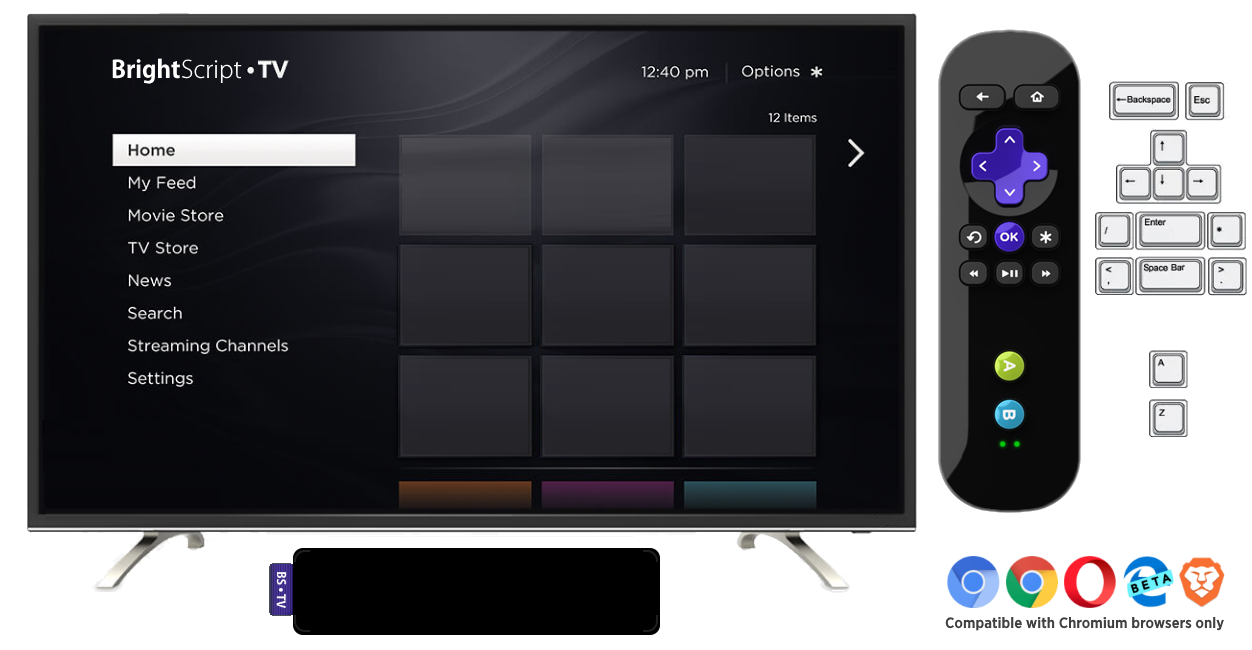
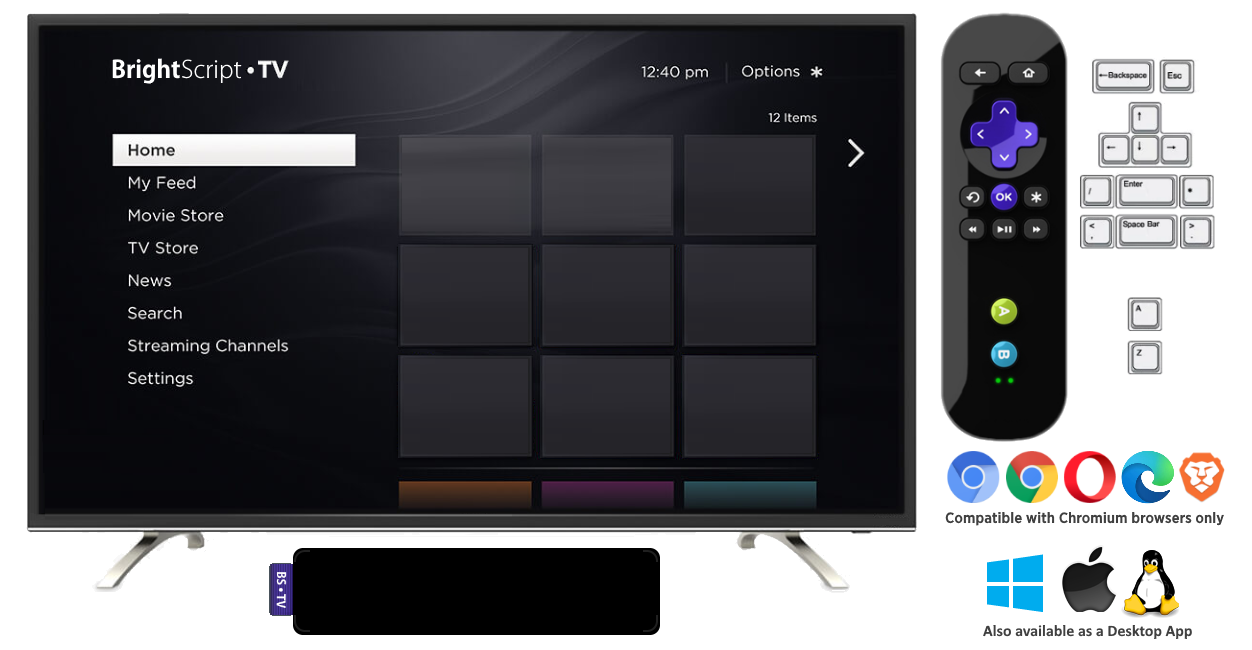
Updated to v0.7.0

Changed region(s): [[0.7476, 0.0, 0.9968, 0.8308], [0.7476, 0.8308, 0.9968, 0.9846]]

diff --git a/app/index.html b/app/index.html
@@ -19,7 +19,7 @@
         src="https://s3.amazonaws.com/github/ribbons/forkme_right_darkblue_121621.png" alt="Fork me on GitHub" /></a>
     <div id="container">
         <h2
-            >BrightScript 2D API Emulator :: v0.6 Alpha
+            >BrightScript 2D API Emulator :: v0.7 Beta
             <hr>
         </h2>
         <div style="position: relative; left: 0px; top: 0px">
@@ -40,12 +40,18 @@
             <input type="button" id="fileButton" class="fileButton" value="Open Channel ZIP or BRS file..." />
         </div>
         <br/><br/><br/><br/><br/><br/>
-        <h3>Note for Developers</h3>
-        You can see the debug messages from <code>print</code> statements in your code using the <em>browser console</em>, just right click anywhere in the page and select 
-        <em>Inspect (Ctrl+Shift+i)</em>. Exceptions from the emulator will be shown there too. 
-        <h3>Documentation and Download</h3>
-        <p>To learn more about the project visit the repository at: <a href="https://github.com/lvcabral/brs-emu/">https://github.com/lvcabral/brs-emu/</a></p>
-		<p>You can download this project in either <a href="https://github.com/lvcabral/brs-emu/zipball/master">zip</a> or <a
+        <h3>Note for BrightScript Developers</h3>
+        You can see the debug messages from <code>print</code> statements in your code using the <em>browser console</em>, 
+        just right click anywhere in the page and select <em>Inspect (Ctrl+Shift+i)</em>. Exceptions from the emulator 
+        will be shown there too. Download the desktop app to use it integrated with <b>Visual Studio Code</b>, you will 
+        find more details in the links below.
+
+        <h3>Documentation and Downloads</h3>
+        <p>To learn more about the project visit the repository at: 
+            <a href="https://github.com/lvcabral/brs-emu/">https://github.com/lvcabral/brs-emu/</a></p>
+        <p>To download the <b>Desktop Applications</b> for <b>Windows, macOS and Linux</b> go to the 
+            <a href="https://github.com/lvcabral/brs-emu/releases">releases page</a>.</p>
+		<p>You can download the source code of this project in either <a href="https://github.com/lvcabral/brs-emu/zipball/master">zip</a> or <a
 			href="https://github.com/lvcabral/brs-emu/tarball/master">tar</a> formats.
 		</p>
 		<p>You can also clone the project with <a href="http://git-scm.com">Git</a> by running:

diff --git a/README.md b/README.md
@@ -6,24 +6,26 @@ This repository is a fork from [**BRS**](https://github.com/sjbarag/brs) project
 
 ### So can I use this to watch TV without a Roku?
 
-Nope! Both projects, **BRS** and **BRS-EMU**, currently has no intention of emulating the Roku OS user interface, integrating with the Roku store, or emulating media content playback.  Although the **BRS-EMU** project runs channels with user interface, it does only support 2D API components, mostly for game development, see [Current Limitations](https://github.com/lvcabral/brs-emu/blob/master/docs/limitations.md) page for full details on what is out of scope.
+Nope! Both projects, **BRS** and **BRS-EMU**, currently has no intention of emulating the Roku OS user interface, integrating with the Roku store, or emulating media content playback.  Although the **BRS-EMU** project runs channels with user interface, it does only support **2D API** components, mostly for **game development**, see [Current Limitations](docs/limitations.md) page for full details on what is out of scope.
 
 <p align="center">
-<img alt="Emulator Web and Desktop" src="/../master/docs/images/screenshots.png?raw=true"/>
+<img alt="Emulator Web and Desktop" src="docs/images/screenshots.png?raw=true"/>
 </p>
 
 ## Technology and Compatibility
 
 This emulator is bundled as a **[Webpack](https://webpack.js.org/)** Javascript library that runs as a **[Web Worker](https://developer.mozilla.org/en-US/docs/Web/API/Web_Workers_API/Using_web_workers)**, and it uses features like [SharedArrayBuffer](https://developer.mozilla.org/en-US/docs/Web/JavaScript/Reference/Global_Objects/SharedArrayBuffer) and [OffScreenCanvas](https://developer.mozilla.org/en-US/docs/Web/API/OffscreenCanvas), that are _bleeding edge_ in the browser engines implementation, because of that, at this moment, it can only be executed in [Chromium](https://www.chromium.org/Home) based browsers, like [Chrome](https://www.google.com/chrome/), [Brave](https://brave.com/download/), [Opera](https://www.opera.com/), [Edge Chromium](https://www.microsoftedgeinsider.com/en-us/download/) or embedded on an [Electron](https://electronjs.org/) application. 
 
-The **BrightScript Draw 2D API Emulator** is a full client-side library, nothing is sent or processed in the server side. Starting from v0.5.0 Alpha, in addition to the sample **web application**, the release also includes a multi-platform **desktop application** (Windows, Linux & Mac) that uses the same library generated by this project. The desktop app source code is also available at https://github.com/lvcabral/brs-emu-app. 
+The **BrightScript 2D API Emulator** is a full client-side library, nothing is sent or processed in the server side. In addition to the included sample **web application**, every release also includes a multi-platform **desktop application** (Windows, Linux & macOS) that uses the same library generated by this project.
+
+The desktop app, introduces several aditional features, such as the **full screen** support, **ECP** and **Remote Console** servers to allow integration with 3rd party development tools like the [VSCode BrightScript Extension](https://marketplace.visualstudio.com/items?itemName=celsoaf.brightscript). The app source code is available in another repository, located at https://github.com/lvcabral/brs-emu-app.
 
 ## Contributing
 
 There are many ways in which you can participate in the project, read documents below to know the details:
 
-* [How to contribute](https://github.com/lvcabral/brs-emu/blob/master/docs/contributing.md)
-* [How to build from source](https://github.com/lvcabral/brs-emu/blob/master/docs/build-from-source.md)
+* [How to contribute](docs/contributing.md)
+* [How to build from source](docs/build-from-source.md)
 
 ## Usage
 
@@ -52,19 +54,19 @@ As mentioned above, this repo provides a sample web appplication for testing the
 
 ### Desktop Application
 
-You can also run the emulator as a desktop application, download and install the specific OS package from the [latest release](https://github.com/lvcabral/brs-emu/releases).
+You can also run the emulator as a desktop application, download and install the specific OS package from the [latest release](https://github.com/lvcabral/brs-emu/releases). For usage documentation check the [app repository](https://github.com/lvcabral/brs-emu-app).
 
 ### Games and Demos
 
 You can try the emulator by running one of the demonstration channels included in the repository, these are pre-configured as _clickable icons_ on `index.html`. In addition to those, you can load your own code, either as a single **.brs** file or a channel **.zip package**. Below there is a list of tested games that are publicly available with source code, download the `zip` files and have fun!
 
-*   [Prince of Persia for Roku](https://github.com/lvcabral/Prince-of-Persia-Roku) port by Marcelo Lv Cabral - Download [zip file](https://github.com/lvcabral/Prince-of-Persia-Roku/releases/download/v0.17.3770/Prince-of-Persia-Roku-017.zip)
-*   [Lode Runner for Roku](https://github.com/lvcabral/Lode-Runner-Roku) remake by Marcelo Lv Cabral - Download [zip file](https://github.com/lvcabral/Lode-Runner-Roku/releases/download/v0.17.700/Lode-Runner-Roku-017.zip)
+*   [Prince of Persia for Roku](https://github.com/lvcabral/Prince-of-Persia-Roku) port by Marcelo Lv Cabral - Download [zip file](https://github.com/lvcabral/Prince-of-Persia-Roku/releases/download/v0.18.3778/Prince-of-Persia-Roku-018.zip)
+*   [Lode Runner for Roku](https://github.com/lvcabral/Lode-Runner-Roku) remake by Marcelo Lv Cabral - Download [zip file](https://github.com/lvcabral/Lode-Runner-Roku/releases/download/v0.18.707/Lode-Runner-Roku-018.zip)
 *   [Retaliate](https://github.com/lvcabral/retaliate-roku) game by Romans I XVI - Download [zip file](https://github.com/lvcabral/retaliate-roku/releases/download/v1.7.0-emu/retaliate-brs-emu.zip)
 
 ### Note for BrightScript Developers
 
-You can see the debug messages from `print` statements in your code using the _browser console_, just make sure you open the _Developer Tools (Ctrl+Shift+i)_ before loading your channel package or brs file. Exceptions from the emulator will be shown there too. If your code does show an error in some scenario not listed on the [limitations documentation](https://github.com/lvcabral/brs-emu/blob/master/docs/limitations.md), feel free to [open an issue](https://github.com/lvcabral/brs-emu/issues).
+You can see the debug messages from `print` statements in your code using the _browser console_, just make sure you open the _Developer Tools (Ctrl+Shift+i)_ before loading your channel package or brs file. Exceptions from the emulator will be shown there too. If your code does show an error in some scenario not listed on the [limitations documentation](docs/limitations.md), feel free to [open an issue](https://github.com/lvcabral/brs-emu/issues).
 
 ## Author Links
 - My website is [https://lvcabral.com](https://lvcabral.com)
